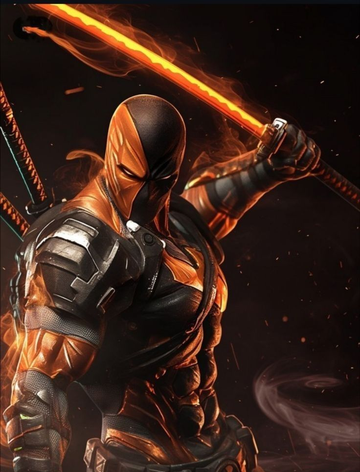
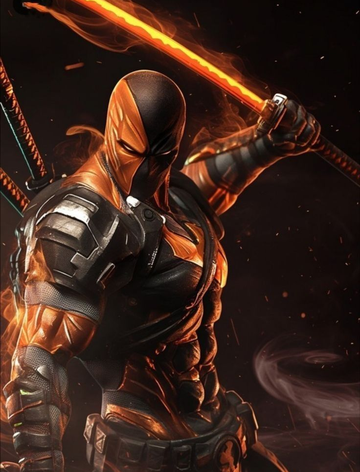
Re-crop Grievous + Jason + Scarlet Witch + Deathstroke: full subject visible
User: "make sure Grievous, Jason, Scarlet Witch, Deathstroke can
be seen in their images and centered. Right now it's being cut
off a little."

Diagnosis — the standard smart_crop.py runs subject-bbox
detection then forces 3:4 aspect. For Grievous, source is 736×520
(WIDE, aspect 1.42 vs target 0.76), so the aspect-fit fallback
narrowed the bbox horizontally to ~395 wide, discarding 47% of
the source width including 2 of his 4 spread lightsabers. For
Jason / Witch / Deathstroke (tall 736×1308-1359 sources), the
generic crop centered the box mid-image, sometimes pushing the
head out of frame on the upper edge.

New custom processing:

  Grievous (wide source) → LETTERBOX top/bottom with the dark
    card-body color (#080c16). Scales the source to 360 wide,
    pads the vertical to 472. Full subject (all 4 lightsabers,
    skull mask, robes) preserved. User's earlier "no black"
    direction was for the TALL-source case where letterbox
    would have shown side bars; for wide sources where the
    alternative is losing subject, the dark band on top and
    bottom is the right trade.

  Jason / Scarlet Witch / Deathstroke (tall sources) → CENTER-
    crop with `upper_bias=0.40` (anchor 40% from top, not 50%).
    Keeps full source width (no horizontal cropping) and crops
    the lower portion only — losing the bottom of legs / floor
    background instead of trimming the figure sides. Anchoring
    slightly above center keeps the face & head in frame
[…]

diff --git a/index.html b/index.html
@@ -719,7 +719,7 @@
   <script src="https://unpkg.com/peerjs@1.5.4/dist/peerjs.min.js"></script>
   <script src="multiplayer.js?v=5"></script>
   <script src="card-art-manifest.js?v=29"></script>
-  <script src="ui.js?v=633"></script>
+  <script src="ui.js?v=634"></script>
   <script src="logger.js?v=5"></script>
   <!-- Always-on crash capture. Hooks window.onerror +
        unhandledrejection, surfaces a "Copy bug report" button when

diff --git a/ui.js b/ui.js
@@ -13,7 +13,7 @@ const UI = {
   // cached PNGs (which don't have built-in cache busters since they're
   // referenced via background-image url() and not the index.html
   // version-suffix system). Bump this every time you regen art.
-  _CARD_ART_VERSION: 54,
+  _CARD_ART_VERSION: 55,
 
   // =====================================================================
   // CARD ART VARIANTS
